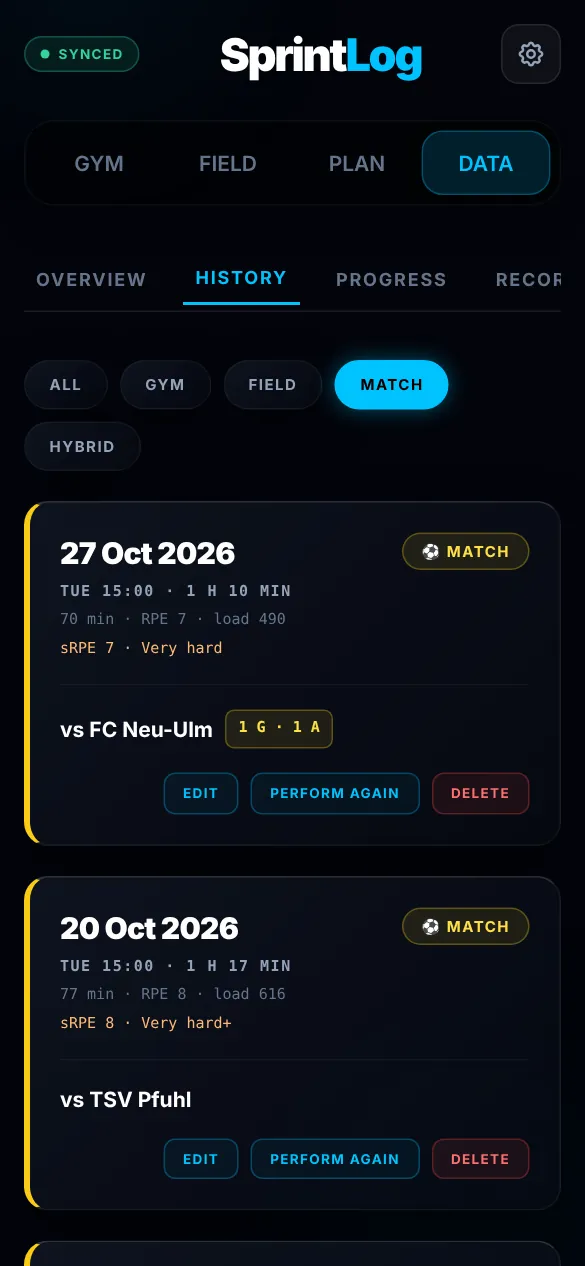
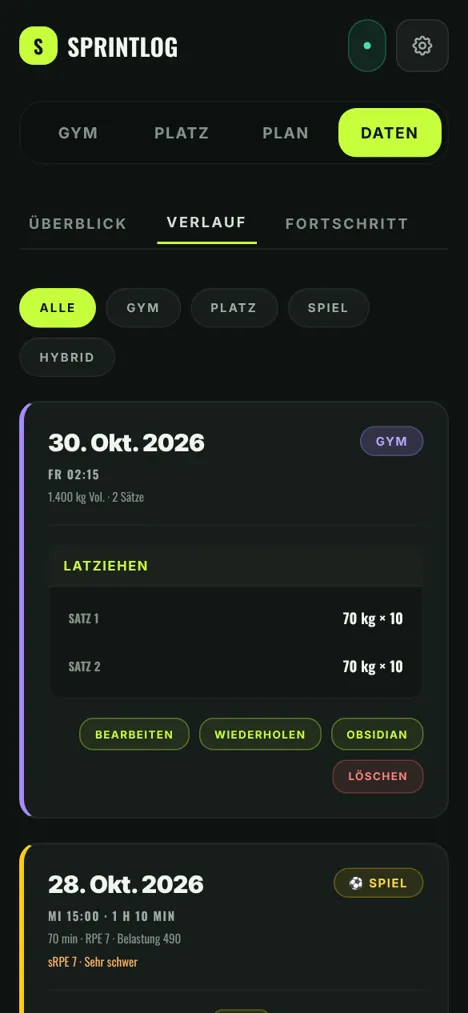
docs: new screenshots (all screens + 4 themes) and README for themes, one-tap logging, catalog, Obsidian, agents
- 17 fresh screenshots in German (pitch dark plus one per theme), old
  screenshots of the previous design removed, broken duplicate table fixed.
- Features: one-tap set logging, start options, multilingual search, quality,
  257 exercises, Obsidian export, themes and tokens, lazy chunks, Claude agents.
- Challenges: the stuck gym sync, theming via a remapped Tailwind palette, the
  bundle split.

Claude-Session: https://claude.ai/code/session_019N9CN6doALgUEbNnH49b2x

diff --git a/README.md b/README.md
@@ -8,24 +8,23 @@ Live-Demo: https://sprintlog-api.onrender.com/
 
 > Projekt im 1. Ausbildungsjahr - Fachinformatiker für Anwendungsentwicklung.
 
-| Übungen | Satz + Technik (Kraft) | Satz + Technik (Feld) | Einheit prüfen |
+| Anmelden | Start | Übungen hinzufügen | Training (ein Tipp pro Satz) |
 | --- | --- | --- | --- |
-| ![Übungen](docs/screenshots/gym.webp) | ![Kraft](docs/screenshots/set-gym.webp) | ![Feld](docs/screenshots/set-field.webp) | ![Session](docs/screenshots/session.webp) |
+| ![Anmelden](docs/screenshots/auth.webp) | ![Start](docs/screenshots/start.webp) | ![Auswahl](docs/screenshots/picker.webp) | ![Training](docs/screenshots/workout.webp) |
 
-| Spiel eintragen | Täglicher Check-in | Trainingsplan | Vorlagen mit Quellen |
+| Satz + Technik | Abschluss (RPE + Qualität) | Historie | Export für Obsidian |
 | --- | --- | --- | --- |
-| ![Spiel](docs/screenshots/match.webp) | ![Check-in](docs/screenshots/checkin.webp) | ![Plan](docs/screenshots/plan.webp) | ![Vorlagen](docs/screenshots/templates.webp) |
+| ![Satz](docs/screenshots/set-gym.webp) | ![Abschluss](docs/screenshots/finish.webp) | ![Historie](docs/screenshots/history.webp) | ![Obsidian](docs/screenshots/obsidian.webp) |
 
-| Überblick | Historie | Fortschritt | Kalender |
+| Überblick | Fortschritt | Kalender | Plan + Check-in |
 | --- | --- | --- | --- |
-| ![Überblick](docs/screenshots/overview.webp) | ![Historie](docs/screenshots/history.webp) | ![Fortschritt](docs/screenshots/progress.webp) | ![Kalender](docs/screenshots/calendar.webp) |
+| ![Überblick](docs/screenshots/overview.webp) | ![Fortschritt](docs/screenshots/progress.webp) | ![Kalender](docs/screenshots/calendar.webp) | ![Plan](docs/screenshots/plan.webp) |
 
---- | --- | --- | --- |
-| ![Übungen](docs/screenshots/gym.webp) | ![Kraft](docs/screenshots/set-gym.webp) | ![Feld](docs/screenshots/set-field.webp) | ![Überblick](docs/screenshots/overview.webp) |
+**Vier Stile, jeweils hell und dunkel** (Einstellungen -> Darstellung, "Auto" folgt dem System):
 
-| Historie | Fortschritt | Kalender | Einheit prüfen |
+| Pitch Night | Clean Pro (hell) | Midnight Pro | Mono Athlete (hell) |
 | --- | --- | --- | --- |
-| ![Historie](docs/screenshots/history.webp) | ![Fortschritt](docs/screenshots/progress.webp) | ![Kalender](docs/screenshots/calendar.webp) | ![Session](docs/screenshots/session.webp) |
+| ![Pitch Night](docs/screenshots/theme-pitch.webp) | ![Clean Pro](docs/screenshots/theme-clean.webp) | ![Midnight Pro](docs/screenshots/theme-midnight.webp) | ![Mono Athlete](docs/screenshots/theme-mono.webp) |
 
 ---
 
@@ -46,15 +45,18 @@ Live-Demo: https://sprintlog-api.onrender.com/
 ## Features
 
 **Training erfassen**
+- Laufende Einheit als Übungs-Blöcke: Der nächste Satz steht schon vorausgefüllt da (geplanter Satz aus "Wiederholen", letzter Satz der Einheit, Plan-Vorschlag oder derselbe Satz vom letzten Mal) - **ein Tipp auf ✓ loggt ihn**. Erledigte Sätze antippen = bearbeiten.
+- Start mit einem Tipp: leere Einheit, nächster Plan-Tag oder "Letzte wiederholen" (gleiche Übungen, jeder Satz vorausgefüllt).
+- Übungsauswahl mit Zuletzt / Favoriten / Alle, Mehrfachauswahl und mehrsprachiger Suche: offizielle Namen in EN/DE/RU plus Gym-Slang und Gerätenamen, tolerant gegenüber Umlauten, ё und einem Tippfehler ("Bizepsmaschine", "становая", "latzug").
 - Drei Erfassungsarten pro Übung: *Gewicht × Wiederholungen*, *Distanz + Zeit* (Sprints, Shuttles) und *Dauer* (Plank, Seilspringen).
 - Live-Telemetrie beim Kraftsatz: geschätztes 1RM (Epley), Intensität in % vom Rekord, Trainingszone; Schnellwahl 70/80/90 % vom Rekord.
 - Live-Telemetrie beim Sprint: km/h, m/s und Vergleich mit der eigenen Bestgeschwindigkeit.
 - Vorbelegung mit dem letzten Satz, Pausentimer mit Ton und Vibration (läuft auch nach Neuladen korrekt weiter), Bildschirm bleibt während der Einheit an.
 - Eigene Übungen (nur für den eigenen Account sichtbar), Favoriten, Suche, Filter und Sortierung.
 - Pro Satz RPE (6-10 in halben Schritten) oder wahlweise RIR (Wdh. in Reserve, gespeichert als RPE), Aufwärmsätze und eine Notiz (z. B. "Knie ok") - Aufwärmsätze zählen nicht für Rekorde, Volumen und Verläufe.
-- Abschluss-Dialog mit Session-RPE (Borg CR-10), Notiz, Datum und Dauer -> Trainingslast nach Foster (sRPE × Minuten) im Wochendiagramm.
+- Abschluss-Dialog mit Session-RPE (Borg CR-10), Qualität (1-10, wie gut lief es - getrennt von der Anstrengung), Notiz, Datum und Dauer -> Trainingslast nach Foster (sRPE × Minuten) im Wochendiagramm.
 - Einheiten nachträglich bearbeiten (auch offline - die Änderung wird per `PUT` synchronisiert).
-- Technik-Ansicht pro Übung: animierte Figur (eigene SVG-Skelettanimation, offline, ~65 Bewegungsmuster für alle 130 Standardübungen, eigene Übungen werden über den Namen erkannt), Zielmuskulatur und 3-4 Technik-Hinweise.
+- Technik-Ansicht pro Übung: animierte Figur (eigene SVG-Skelettanimation, offline, ~70 Bewegungsmuster, eigene Übungen werden über den Namen erkannt), Zielmuskulatur und 3-4 Technik-Hinweise; Übungen ohne passende Animation (z. B. Dehnungen, Fußball-Spielformen) haben eigene Hinweise.
 
 **Fußball**
 - Spiele eintragen (Minuten, Session-RPE, Tore, Vorlagen, Gegner) - ohne Sätze, aber mit Trainingslast (Minuten × RPE), sodass Spiele in die Belastungssteuerung eingehen.
@@ -70,13 +72,21 @@ Live-Demo: https://sprintlog-api.onrender.com/
 - "Next up": der nächste Tag rotiert automatisch; Start eines Tages lädt die Vorgaben der aktuellen Woche (Sätze, Wdh., Pause, Ziel-RPE, Hinweise) als Checkliste. Eigener Editor inkl. Wochen-Stufen.
 - Belastungssteuerung: Acute:Chronic Workload Ratio (7 Tage vs. 28-Tage-Schnitt) mit Zonen (Sweet Spot 0.8-1.3, Spike > 1.5), Spiele eingeschlossen.
 - Fortschritt im Plan: geschätztes 1RM der Kraftübungen zu Beginn vs. letzte 3 Wochen.
-- 130 Standard-Übungen (inkl. Maschinen, Multipresse, Kabelzug und Cardio-Geräte), alle mit animierter Technik-Figur (SVG, eigene Skelett-Animation) und Technik-Hinweisen in drei Sprachen.
+- 257 Standard-Übungen: freie Gewichte, Maschinen (inkl. Hammer Strength, Pullover-Maschine, Multipresse), Kabelzug, Kettlebell, Bänder, Prävention (Nordic, Copenhagen, Tibialis Raise, Reverse Nordic, Spanish Squat), Feld (Sprints, Schlitten, Yo-Yo-Test, Rondo, Spielformen), Mobilität und Cardio-Geräte - jede mit Animation oder Technik-Hinweisen in drei Sprachen.
 
 **Auswertungen**
 - Überblick: Einheiten und Volumen dieser Woche (mit Vergleich zur Vorwoche), Wochen-Serie, 12-Wochen-Diagramm, Muskelgruppen-Verteilung, letzte Rekorde.
 - Fortschritt pro Übung: Max-Gewicht, geschätztes 1RM, Volumen bzw. Top-Speed, Bestzeit, Distanz.
 - Historische Rekorde: ein Satz bekommt ein Badge, wenn er zum Zeitpunkt des Trainings den bisherigen Bestwert übertroffen hat.
 - Aktivitäts-Heatmap (26 Wochen) und Rekordliste.
+
+**Obsidian**
+- Einheit (oder ganzer Tag) als Dataview-Zeilen für die Daily Note kopieren bzw. teilen: `- [ses:: gym] [min:: 75] [rpe:: 8] [qual:: 7] [part:: push]` und `- [lift:: Жим лёжа] [kg:: 80] [reps:: 5] [sets:: 3] [rir:: 2]`.
+- Werte immer in den Klammern, Punkt als Dezimaltrenner, gleiche Arbeitssätze zu `sets:: N` zusammengefasst, RIR aus dem Satz-RPE, Aufwärmen zählt zu den Minuten; Session-Code (gym/speed/tech/cardio/recov/match) und Körperteil werden erkannt und lassen sich ändern. Logik in [`frontend/src/lib/obsidian.ts`](frontend/src/lib/obsidian.ts).
+
+**Darstellung**
+- Vier Stile (Pitch Night, Clean Pro, Midnight Pro, Mono Athlete), jeweils hell und dunkel, "Auto" folgt dem System. Alle Farben, Schriften und Radien sind Design-Tokens ([`frontend/src/styles/themes.css`](frontend/src/styles/themes.css)); die Tailwind-Palette ist auf diese Tokens umgebogen, sodass jede Komponente themenfähig ist. Kontraste nach WCAG AA geprüft.
+- Schriften selbst gehostet (Inter, Oswald, Manrope, IBM Plex - alle mit Kyrillisch), geladen nur, wenn ein Stil sie nutzt.
 
 **Offline-first und Daten**
 - Die App startet ohne Netz (Service Worker). Einheiten werden immer zuerst lokal gespeichert und automatisch synchronisiert.
@@ -85,6 +95,10 @@ Live-Demo: https://sprintlog-api.onrender.com/
 - Keine externen CDNs: Vue, Chart.js, Tailwind-CSS und die Schrift werden mitgebaut und selbst ausgeliefert (offline-fähig, keine Datenübertragung an Dritte).
 - Oberfläche auf Englisch, Deutsch und Russisch: Sprache wird aus dem Browser erkannt und lässt sich in den Einstellungen wechseln. Standard-Übungen, Vorlagen und Technik-Hinweise sind übersetzt, Zahlen und Datum folgen der Sprache (z. B. `1,5 kg`). Russische Pluralformen über `Intl.PluralRules`.
 - Strikte Content-Security-Policy (`script-src 'self'`, kein `unsafe-eval`, kein `unsafe-inline`): Templates werden zur Build-Zeit kompiliert.
+- Schlankes Start-Bundle (~97 kB gzip): Deutsch/Russisch, Auswertungen mit Chart.js, Satz-Dialog mit Animationen, Plan und Editoren sind eigene Chunks und werden bei Bedarf geladen (offline trotzdem verfügbar, alles im Service-Worker-Cache).
+
+**Für die Weiterentwicklung mit Claude**
+- [`CLAUDE.md`](CLAUDE.md) mit Projektwissen und drei Subagents in [`.claude/agents`](.claude/agents): `designer` (UI/UX, Themes, visuelle Reviews mit Screenshots), `creative-director` (Konzepte, Texte in RU/DE/EN) und `agent-architect` (neue Agenten entwerfen und prüfen).
 
 ## Tech-Stack
 
@@ -212,7 +226,7 @@ Sentry einrichten (kostenlos, 5.000 Fehler pro Monat): Konto auf sentry.io anleg
 ```bash
 dotnet test                 # Integrationstests gegen echtes PostgreSQL (Docker muss laufen)
 npm run build               # Typprüfung (TypeScript strict, auch die Vue-Templates) + Build
-npm test                    # Unit-Tests (Vitest): Kennzahlen, Rekorde, Sync-Queue, Delta-Sync, Pläne, CSV-Export
+npm test                    # Unit-Tests (Vitest): Kennzahlen, Rekorde, Sync-Queue, Delta-Sync, Pläne, Vorbelegung, Suche, Obsidian-Export
 npm run test:e2e            # Browser-Tests (Playwright) inkl. Offline-Modus und CSP-Prüfung
 ```
 
@@ -344,10 +358,14 @@ SprintLog/
 - **Keine strikte CSP möglich.** Vue kompilierte die Templates im Browser (`new Function`), das verlangt `unsafe-eval`. Lösung: Umstieg auf Vite + Single-File Components; die Templates werden beim Build kompiliert und die API sendet `script-src 'self'` ohne Ausnahmen. Die E2E-Tests laufen mit derselben Policy und schlagen bei jedem Verstoß fehl.
 - **Übersetzungen ohne Laufzeit-Compiler.** Übliche i18n-Bibliotheken kompilieren Nachrichten zur Laufzeit, was mit der strikten CSP kollidiert. Lösung: eigenes, kleines i18n-Modul; die Schlüssel sind TypeScript-Typen aus den englischen Texten, sodass ein fehlender oder falsch geschriebener Schlüssel in DE/RU schon beim Build auffällt. Ein Test prüft zusätzlich, dass alle Sprachen dieselben Platzhalter haben und jede Übung und Vorlage des Servers übersetzt ist.
 - **Feldübungen hatten keine Eingabefelder.** Für Distanz/Zeit gab es im Dialog keine Felder, außerdem waren Kraftübungen in der Kategorie "Football" (z. B. Trap Bar Deadlift) falsch als Zeitübung behandelt. Lösung: `TrackingType` pro Übung in der Datenbank.
+- **Training im Gym blieb auf dem Handy hängen.** In einem In-App-Browser riss die Verbindung mitten in der Antwort ab; das Lesen des Bodys hatte keinen Timeout, die Sync-Sperre blieb für immer gesetzt. Lösung: Timeout über die ganze Anfrage, Sperre mit Ablaufzeit, Sync bei jeder Gelegenheit (sichtbar, Fokus, minütlich) statt nur nach einem `online`-Event, deutlicher Hinweis "nur auf diesem Gerät" mit "Jetzt senden".
+- **Ein Theme-Wechsel hätte jede Komponente betroffen.** Die Oberfläche nutzte feste Tailwind-Farben (`text-white`, `bg-slate-*`). Lösung: Tailwind-Palette auf CSS-Variablen umgebogen (Text- und Flächenfarbe getrennt für AA-Kontrast), danach nur noch gezielte Anpassungen; ein Design-Review per Subagent hat die verbliebenen Kontrast- und Layoutfehler gefunden.
+- **Das Start-Bundle wuchs mit jeder Sprache.** Lösung: DE/RU, Animationen und selten genutzte Dialoge als eigene Chunks; die mehrsprachige Suche lädt fehlende Sprachen nach (-43 %).
 
 ## Ausblick
 
-- Körpergewicht und Wellness-Daten (Schlaf, Müdigkeit) für eine Belastungssteuerung
+- Körpergewicht im Verlauf und Gewichtsziele
+- Wochen-Export für Obsidian und Import von Session-Zeilen aus dem Vault
 - Teilen von Rekorden und Mannschafts-Ansicht für das Team
 
 ---
